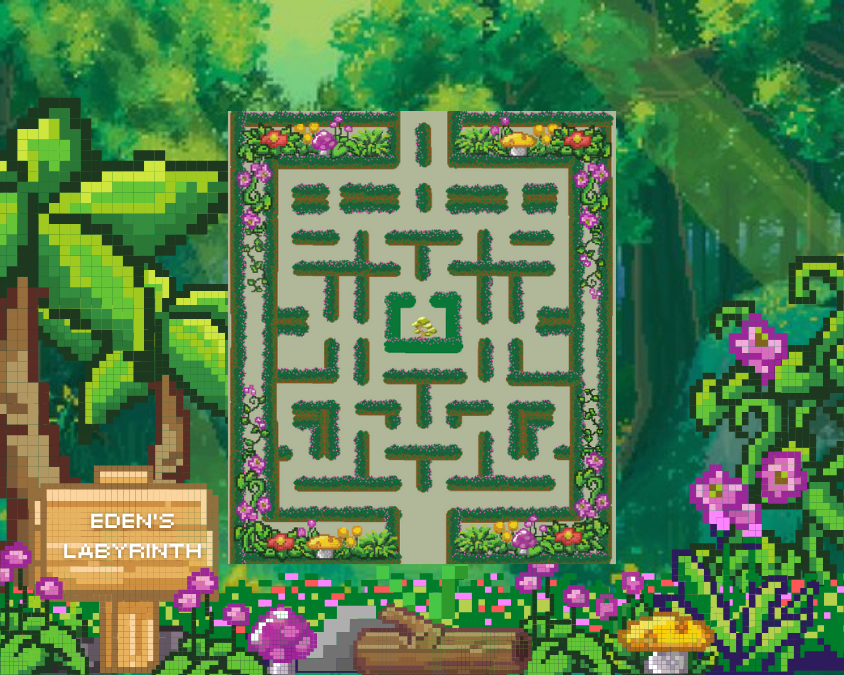
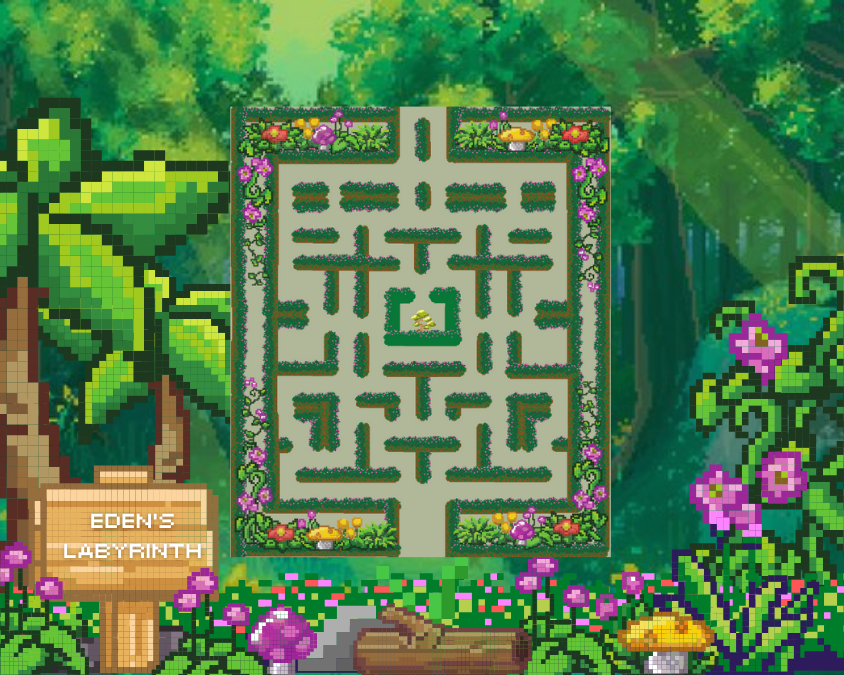
fixed maze graphic alignment

Changed region(s): [[0.2464, 0.1556, 0.7393, 0.84]]

diff --git a/GameServer.java b/GameServer.java
@@ -118,16 +118,12 @@ public class GameServer {
                         //Receiving ADAM coordinates
                         adamX = dataIn.readDouble();
                         adamY = dataIn.readDouble();
-                        //System.out.println("Received ADAM Coordinates: " + adamX + " and " + adamY); //FOR TESTING
-
-
+                        
                     } else{
                         //Receiving SNAKE coordinates
                         snakeX = dataIn.readDouble();
                         snakeY = dataIn.readDouble();
-                        //System.out.println("Received SNAKE Coordinates: " + snakeX + " and " + snakeX); //FOR TESTING
-
-
+                        
                     }
                 }
             }catch(IOException iox){
@@ -165,15 +161,14 @@ public class GameServer {
                         dataOut.writeDouble(snakeX);
                         dataOut.writeDouble(snakeY);
                         dataOut.flush();
-                        //System.out.println("Sending SNAKE to ADAM: " + snakeX + " and " + snakeY); //FOR TESTING
 
                     } else{
                         //send Adam coordinates to Snake
                         dataOut.writeDouble(adamX);
                         dataOut.writeDouble(adamY);
                         dataOut.flush();
-                        //System.out.println("Sending ADAM to SNAKE SUCCESS: " + adamX + " and " + adamY); //FOR TESTING
                     }
+
                     try{
                         Thread.sleep(25);
                     }catch(InterruptedException ix){

diff --git a/MazeSkeleton.java b/MazeSkeleton.java
@@ -10,7 +10,7 @@ public class MazeSkeleton {
     private VRectangle v1, v2, v3, v4, v5, v6, v7, v8, v9, v10, v11, v12, v13, v14, v15, v16; // walls
     private HRectangle h1, h2, h3, h4, h5, h6, h7, h8, h9, h10, h11, h12, h13, h14, h15, h16; //walls
     private HRectangle w1, w2,w3,w4,w5,w6,w7,w8,w9,w10,w11,w13,w15,w18,w20,w22,w24,w26,w28,w30,w32,w34,w36,w38,w40,w42,w43,w44; //guts
-    private VRectangle w12,w14,w16,w17,w19,w21,w23,w25,w27,w29,w31,w33,w35,w37,w39,w41,w45,w46; //guts
+    private VRectangle w12,w14,w16,w17,w19,w21,w23,w25,w27,w29,w31,w33,w35,w37,w39,w41,w45,w46,w47; //guts
 
     public MazeSkeleton(int w) {
         mazeFramework = new ArrayList<>();
@@ -128,6 +128,7 @@ public class MazeSkeleton {
         w45 = new VRectangle(MAZE_EDGE_X + (12*C),MAZE_EDGE_Y+(5*C),2*C);
 
         w46 = new VRectangle(MAZE_EDGE_X + (12*C),MAZE_EDGE_Y+C,3*C);
+        w47 = new VRectangle(MAZE_EDGE_X + (12*C),MAZE_EDGE_Y+(9*C),2*C);
 
         mazeFramework.add(v1);
         mazeFramework.add(v2);
@@ -213,6 +214,7 @@ public class MazeSkeleton {
 
         mazeFramework.add(w45);
         mazeFramework.add(w46);
+        mazeFramework.add(w47);
 
     }
 

diff --git a/GameCanvas.java b/GameCanvas.java
@@ -51,7 +51,9 @@ public class GameCanvas extends JComponent{
             block.draw(g2d);
         }
 
+        // graphic of maze
         f.getMazeImage().paintIcon(this,g2d,0,0);
+
         //draw adam
         f.getMe().draw(g2d);
         f.getEnemy().draw(g2d);
@@ -65,24 +67,17 @@ public class GameCanvas extends JComponent{
         {
             if(p.isColliding(block)){
                 if(p.getUp()){
-                    System.out.println(p.getY());
                     p.setY(p.getY()+adjust);
                 }
                 else if(p.getDown()){
-                    System.out.println(p.getY());
-
                     p.setY(p.getY() -adjust);
                 }
 
                 else if(p.getRight()){
-                    System.out.println(p.getX());
-
                     p.setX(p.getX()-adjust);
                 }
 
                 else if(p.getLeft()){
-                    System.out.println(p.getX());
-
                     p.setX(p.getX() + adjust);
                 }
 
